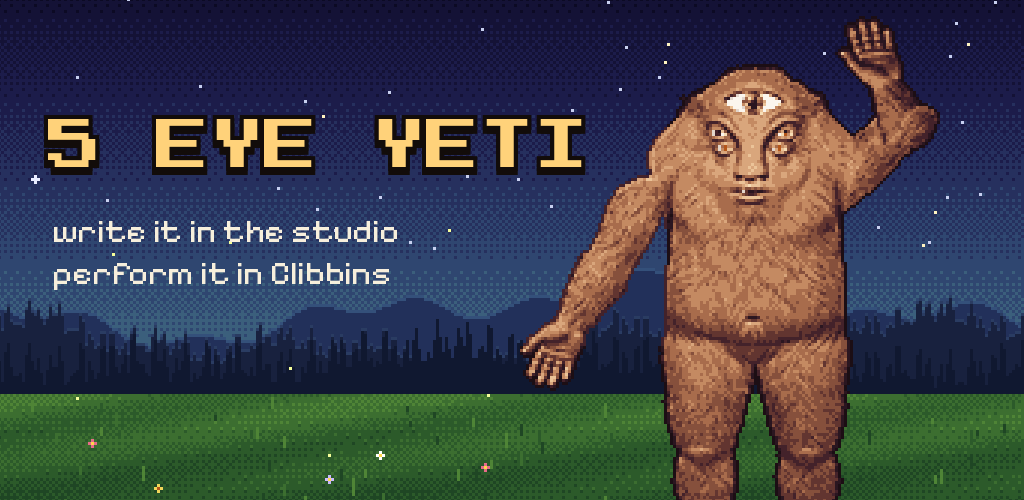
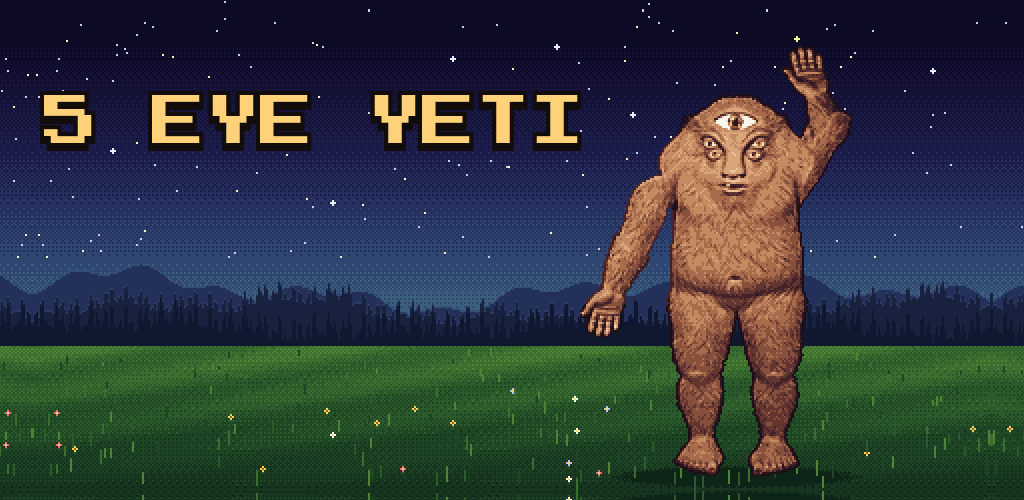
Title screen: animated pixel yeti reaching up to catch a firefly in a starlit clearing (no moon), fireflies and blinks; feature graphic shows only the name
Claude-Session: https://claude.ai/code/session_01JpLHzsYAvEKzmccr94t7N9

diff --git a/android/app/src/main/java/app/foxbox/ui/ProjectScreen.kt b/android/app/src/main/java/app/foxbox/ui/ProjectScreen.kt
@@ -19,7 +19,6 @@ import java.util.Date
 class ProjectScreen(c: Context, private val onOpen: (Project) -> Unit, private val onNew: () -> Unit, private val onManage: (Project) -> Unit) : FrameLayout(c) {
     private val titleP = Px.text(26f, Pal.ORANGE, headFont = true)
     private val tagP = Px.text(14f, Pal.AQUA_D)
-    private val subP = Px.text(13f, Pal.SUN, headFont = true, align = Paint.Align.LEFT)
 
     init {
         setWillNotDraw(false)
@@ -36,23 +35,56 @@ class ProjectScreen(c: Context, private val onOpen: (Project) -> Unit, private v
     private val headP = Px.text(34f, Pal.ORANGE, headFont = true)
     private val shine = intArrayOf(0xFFFFF4D6.toInt(), 0xFFFFD27A.toInt(), 0xFFF4A259.toInt(), 0xFFE8742C.toInt(), 0xFFB8521B.toInt())
 
-    /** The title scene: the yeti waving in headphones in the moonlit clearing (pixel art, drawn with hard pixels). */
-    private val scene = context.assets.open("images/title_scene.png").use { android.graphics.BitmapFactory.decodeStream(it) }
-    private val scenePaint = Paint().apply { isFilterBitmap = false; isAntiAlias = false }
+    // ---- the title scene: a starlit clearing where the yeti reaches up to catch fireflies (pixel art, played back as frames)
+    private fun img(name: String) = context.assets.open("images/$name").use { android.graphics.BitmapFactory.decodeStream(it) }
+    private val bg = img("title_bg.png")
+    private val sheet = img("yeti_frames.png")
+    private val blink = img("yeti_blink.png")
+    private val anim = org.json.JSONObject(context.assets.open("images/yeti_anim.json").use { String(it.readBytes()) })
+    private val frames = anim.getInt("frames"); private val fw = anim.getInt("w"); private val fh = anim.getInt("h")
+    private val fx = anim.getInt("x"); private val fy = anim.getInt("y")
+    private val hands = anim.getJSONArray("hands").let { a -> Array(a.length()) { i -> a.getJSONArray(i).let { floatArrayOf(it.getDouble(0).toFloat(), it.getDouble(1).toFloat()) } } }
+    private val pixel = Paint().apply { isFilterBitmap = false; isAntiAlias = false }
+    private val glow = Paint()
     private val src = android.graphics.Rect(); private val dst = android.graphics.RectF()
+    private val t0 = System.nanoTime()
+    /** Fireflies: centre, orbit radii, speed and phase, in scene pixels. The first one is the one he reaches for. */
+    private val bugs = arrayOf(
+        floatArrayOf(388f, 34f, 22f, 10f, 0.9f, 0f), floatArrayOf(300f, 120f, 30f, 14f, 0.6f, 1.3f), floatArrayOf(440f, 110f, 18f, 22f, 0.7f, 2.1f),
+        floatArrayOf(210f, 150f, 40f, 12f, 0.5f, 0.4f), floatArrayOf(120f, 130f, 30f, 18f, 0.8f, 3.0f), floatArrayOf(470f, 60f, 14f, 20f, 0.65f, 4.2f),
+        floatArrayOf(60f, 165f, 26f, 10f, 0.75f, 5.1f),
+    )
 
     override fun onDraw(c: Canvas) {
         val w = width.toFloat(); val h = height.toFloat()
+        val t = (System.nanoTime() - t0) / 1e9f
         // Fill the screen; keep the right edge (where the yeti is) and crop from the left or top.
-        val k = maxOf(w / scene.width, h / scene.height)
-        val sw = (w / k).toInt().coerceAtMost(scene.width); val sh = (h / k).toInt().coerceAtMost(scene.height)
-        src.set(scene.width - sw, (scene.height - sh) / 2, scene.width, (scene.height - sh) / 2 + sh)
-        dst.set(0f, 0f, w, h)
-        c.drawBitmap(scene, src, dst, scenePaint)
+        val k = maxOf(w / bg.width, h / bg.height)
+        val sw = (w / k).toInt().coerceAtMost(bg.width); val sh = (h / k).toInt().coerceAtMost(bg.height)
+        val left = bg.width - sw; val top = (bg.height - sh) / 2
+        src.set(left, top, left + sw, top + sh); dst.set(0f, 0f, w, h)
+        c.drawBitmap(bg, src, dst, pixel)
+        fun at(sx: Float, sy: Float, bmp: android.graphics.Bitmap, sr: android.graphics.Rect) {
+            dst.set((sx - left) * k, (sy - top) * k, (sx - left + sr.width()) * k, (sy - top + sr.height()) * k); c.drawBitmap(bmp, sr, dst, pixel)
+        }
+        // reach up, hold a moment with the firefly, come back down (about 4 s a cycle)
+        val cyc = (t / 4.2f) % 1f
+        val reach = (1.35f * (0.5f - 0.5f * kotlin.math.cos(2 * Math.PI.toFloat() * cyc))).coerceAtMost(1f)
+        val f = (reach * (frames - 1) + 0.5f).toInt().coerceIn(0, frames - 1)
+        src.set(f * fw, 0, (f + 1) * fw, fh); at(fx.toFloat(), fy.toFloat(), sheet, src)
+        if ((t % 3.7f) < 0.14f) { src.set(0, 0, fw, fh); at(fx.toFloat(), fy.toFloat(), blink, src) }
+        // fireflies: soft pulsing lights; the first drifts down into his raised hand
+        for ((i, b) in bugs.withIndex()) {
+            var x = b[0] + b[2] * kotlin.math.sin(t * b[4] + b[5]); var y = b[1] + b[3] * kotlin.math.sin(t * b[4] * 1.7f + b[5] * 2f)
+            if (i == 0) { val hp = hands[f]; val g = reach * reach * reach; x += (hp[0] - x) * g; y += (hp[1] - 3f - y) * g }
+            val pulse = 0.55f + 0.45f * kotlin.math.sin(t * 3.1f + b[5] * 5f)
+            val px = ((x.toInt() - left) * k); val py = ((y.toInt() - top) * k)
+            glow.color = Pal.alpha(0xFFE8FF8A.toInt(), 0.35f * pulse); c.drawRect(px - k, py - k, px + 2 * k, py + 2 * k, glow)
+            glow.color = Pal.alpha(0xFFF6FF9A.toInt(), 0.6f + 0.4f * pulse); c.drawRect(px, py, px + k, py + k, glow)
+        }
         headP.textAlign = Paint.Align.LEFT
         snesTitle(c, "5 EYE YETI", Px.dp(28f), Px.dp(64f))
-        tagP.textAlign = Paint.Align.LEFT
-        c.drawText("5IY", Px.dp(32f), Px.dp(92f), subP)
+        postInvalidateDelayed(40)
     }
 
     /** Super Nintendo-style title: banded metallic fill, thick ink outline and a drop shadow. */

diff --git a/android/play/concepts/pixel/yeti_anim.py b/android/play/concepts/pixel/yeti_anim.py
@@ -1,0 +1,126 @@
+"""5 Eye Yeti title animation: a starlit clearing (no moon) and the yeti reaching up
+to catch fireflies, as pixel-art frames the project screen plays back.
+Writes title_bg.png, yeti_frames.png, yeti_blink.png and yeti_anim.json into OUT."""
+import sys, math, random, json, os
+sys.path.insert(0, '.')
+from PIL import Image
+import numpy as np
+import rig
+import render as R
+
+OUT = sys.argv[1]
+W, H = 480, 240
+rnd = random.Random(9)
+B4, hx = R.B4, R.hx
+
+# ---------------- background
+sc = np.zeros((H, W, 3), np.uint8)
+SKY = [hx(c) for c in ('#0c0a24', '#141236', '#1c1c4a', '#26305e', '#2f4670', '#3b5f7c', '#4c7a86')]
+for y in range(H):
+    t = y / 165 * (len(SKY) - 1)
+    for x in range(W): sc[y, x] = SKY[int(np.clip(t + B4[y % 4, x % 4], 0, len(SKY) - 1))]
+for _ in range(150):
+    x, y = rnd.randrange(W), rnd.randrange(125)
+    sc[y, x] = hx('#c8d0f0') if rnd.random() < 0.7 else hx('#fff4c0')
+for (x, y) in ((40, 70), (210, 24), (450, 30), (150, 96), (300, 52), (262, 18)):
+    for dx, dy in ((0, 0), (1, 0), (-1, 0), (0, 1), (0, -1)): sc[y + dy, x + dx] = hx('#e8ecff')
+def ridge(base, amp, seed_, col, top_col=None, jag=0):
+    rr = random.Random(seed_); ph = [rr.uniform(0, 6) for _ in range(4)]
+    for x in range(W):
+        h = base - amp * (0.5 * math.sin(x * 0.02 + ph[0]) + 0.3 * math.sin(x * 0.06 + ph[1]) + 0.2 * math.sin(x * 0.17 + ph[2]))
+        if jag: h -= jag * abs(math.sin(x * 0.9 + ph[3]) * math.sin(x * 0.37))
+        for y in range(int(h), H): sc[y, x] = col
+        if top_col is not None and 0 <= int(h) < H: sc[int(h), x] = top_col
+ridge(140, 14, 1, hx('#22305a'), hx('#34507a'))
+ridge(152, 10, 2, hx('#18213e'), hx('#2a3c62'), jag=9)
+ridge(162, 6, 3, hx('#101830'), None, jag=14)
+GRASS = [hx(c) for c in ('#0e2418', '#16341e', '#1f4624', '#2c5a2a', '#3c6e30', '#4f8436')]
+for y in range(168, H):
+    t = (y - 168) / (H - 168)
+    for x in range(W):
+        k = 4.6 - t * 3.2 + B4[y % 4, x % 4] * 1.2 + 0.6 * math.sin(x * 0.05 + y * 0.3) * (1 - t)
+        sc[y, x] = GRASS[int(np.clip(k, 0, 5))]
+bg = Image.fromarray(sc); px = bg.load()
+FEET, BODYX = 233, 352
+for y in range(FEET - 6, FEET + 6):
+    for x in range(BODYX - 70, BODYX + 70):
+        if ((x - BODYX) / 58) ** 2 + ((y - FEET) / 5) ** 2 < 1 + B4[y % 4, x % 4] * 0.4: px[x, y] = GRASS[0]
+for _ in range(26):
+    x = rnd.randrange(8, W - 8); y = rnd.randrange(182, H - 4)
+    if abs(x - BODYX) < 60: continue
+    pc = rnd.choice((hx('#e86a8a'), hx('#f2d65a'), hx('#c8b8ff'), hx('#ffffff')))
+    px[x, y + 1] = GRASS[4]; px[x, y + 2] = GRASS[3]
+    for dx, dy in ((0, -1), (-1, 0), (1, 0), (0, 1)): px[x + dx, y + dy] = pc
+    px[x, y] = hx('#ffd84a') if pc != hx('#f2d65a') else hx('#b4561a')
+for _ in range(240):
+    x = rnd.randrange(W); y = rnd.randrange(172, H)
+    if abs(x - BODYX) < 34 and y < FEET - 6: continue
+    h = 2 + int((y - 168) / 16) + rnd.randrange(3)
+    col = GRASS[min(5, 3 + rnd.randrange(3))] if rnd.random() < 0.7 else GRASS[2]
+    for k3 in range(h):
+        if 0 <= y - k3 < H: px[x, y - k3] = col
+bg.save(os.path.join(OUT, 'title_bg.png'))
+
+# ---------------- yeti frames: the right arm reaches up for a firefly and comes back down
+K = 190 / 897                         # front body height -> 190 px
+OXs, OYs = BODYX - 431 * K, FEET - 897 * K
+N = 8
+frames = []
+for i in range(N):
+    t = i / (N - 1)
+    e = 0.5 - 0.5 * math.cos(math.pi * t)          # ease in/out
+    im, off = rig.pose(('L', 8 + 6 * e, 4 * e), ('R', 4 + 112 * e, 6 + 48 * e))
+    TH = round(im.height * K)
+    spr = R.snes_creature(im, TH)
+    x0 = OXs - off[0] * spr.width / im.width; y0 = OYs - off[1] * TH / im.height
+    frames.append((spr, int(round(x0)), int(round(y0))))
+fx0 = min(f[1] for f in frames); fy0 = min(f[2] for f in frames)
+fx1 = max(f[1] + f[0].width for f in frames); fy1 = max(f[2] + f[0].height for f in frames)
+FW, FH = fx1 - fx0, fy1 - fy0
+sheet = Image.new('RGBA', (FW * N, FH), (0, 0, 0, 0))
+hands = []
+headTop = int(OYs - fy0 + 4)
+for i, (spr, x, y) in enumerate(frames):
+    cell = Image.new('RGBA', (FW, FH), (0, 0, 0, 0)); cell.paste(spr, (x - fx0, y - fy0), spr)
+    sheet.paste(cell, (i * FW, 0))
+    a = np.asarray(cell)[..., 3] > 0
+    cx = int(BODYX - fx0)
+    # the hand: the highest point of the reaching arm (above the head once it's raised)
+    ys, xs = np.nonzero(a); j = int(np.argmin(ys))
+    if not (xs[j] > cx + 10 and ys[j] < headTop - 2):
+        ys, xs = np.nonzero(a[:, cx + 44:]); j = int(np.argmin(ys)); xs = xs + cx + 44
+    hands.append([int(xs[j] + fx0), int(ys[j] + fy0)])
+sheet.save(os.path.join(OUT, 'yeti_frames.png'))
+
+# ---------------- blink overlay: all five eyes shut (the head doesn't move between frames)
+cell = np.asarray(sheet.crop((0, 0, FW, FH))).copy()
+EYE = set(R.SCLERA + R.IRIS)
+blink = np.zeros_like(cell)
+headH = int(FH * 0.4)
+eye = np.zeros(cell.shape[:2], bool)
+for y in range(headH):
+    for x in range(FW):
+        if cell[y, x, 3] and tuple(cell[y, x, :3]) in EYE: eye[y, x] = True
+# pupils: outline-coloured pixels surrounded by eye colour
+for y in range(1, headH - 1):
+    for x in range(1, FW - 1):
+        if cell[y, x, 3] and tuple(cell[y, x, :3]) == R.OUT and eye[y - 1:y + 2, x - 1:x + 2].sum() >= 3: eye[y, x] = True
+for y in range(headH):
+    for x in range(FW):
+        if eye[y, x]:
+            low = y + 1 < FH and not eye[y + 1, x]
+            blink[y, x] = (*(R.FUR[2] if low else R.FUR[6]), 255)
+Image.fromarray(blink).save(os.path.join(OUT, 'yeti_blink.png'))
+json.dump({'frames': N, 'w': FW, 'h': FH, 'x': fx0, 'y': fy0, 'hands': hands}, open(os.path.join(OUT, 'yeti_anim.json'), 'w'))
+
+# preview: frames over the background
+prev = Image.new('RGB', (W * 2, H * 2))
+for i, f in enumerate((0, N - 1)):
+    b = bg.copy(); c = sheet.crop((f * FW, 0, (f + 1) * FW, FH)); b.paste(c, (fx0, fy0), c)
+    if f == N - 1:
+        bl = Image.fromarray(blink); b.paste(bl, (fx0, fy0), bl)
+    hxp, hyp = hands[f]; b.putpixel((hxp, max(0, hyp - 4)), (246, 255, 154))
+    prev.paste(b.resize((W, H)), (0, 0) if i == 0 else (W, 0))
+prev.save('anim-preview.png')
+bg2 = bg.copy(); c = sheet.crop(((N // 2) * FW, 0, (N // 2 + 1) * FW, FH)); bg2.paste(c, (fx0, fy0), c); bg2.save('anim-mid.png')
+print('ok', N, FW, FH, fx0, fy0, hands)

diff --git a/android/play/make_art.py b/android/play/make_art.py
@@ -1,27 +1,37 @@
 """Play Store graphics for 5 Eye Yeti (5IY).
 The app icon is built from the blue yeti line drawing (see concepts/icon.py);
-this script makes the 1024x500 feature graphic from the pixel-art title scene.
+this script makes the 1024x500 feature graphic from the pixel-art title scene
+(the clearing and one frame of the yeti reaching for a firefly) with just the name.
 Run: python3 play/make_art.py"""
 import os
 from PIL import Image, ImageDraw, ImageFont
 
 here = os.path.dirname(os.path.abspath(__file__))
-scene = Image.open(os.path.join(here, '..', 'app', 'src', 'main', 'assets', 'images', 'title_scene.png')).convert('RGB')
+imgs = os.path.join(here, '..', 'app', 'src', 'main', 'assets', 'images')
+import json
+scene = Image.open(os.path.join(imgs, 'title_bg.png')).convert('RGBA')
+meta = json.load(open(os.path.join(imgs, 'yeti_anim.json')))
+f = meta['frames'] - 2   # the yeti reaching up
+cell = Image.open(os.path.join(imgs, 'yeti_frames.png')).crop((f * meta['w'], 0, (f + 1) * meta['w'], meta['h']))
+scene.alpha_composite(cell, (meta['x'], meta['y']))
+hx, hy = meta['hands'][f]
+for dx, dy, col in ((0, -4, (246, 255, 154, 255)), (-1, -4, (232, 255, 138, 120)), (1, -4, (232, 255, 138, 120)), (0, -5, (232, 255, 138, 120)), (0, -3, (232, 255, 138, 120))):
+    scene.putpixel((hx + dx, hy + dy), col)
+scene = scene.convert('RGB')
 W, H = 1024, 500
-# scale the 480x240 scene by whole pixels, keep the right edge (the yeti), crop to 1024x500
-k = 3
-big = scene.resize((scene.width * k, scene.height * k), Image.NEAREST)
-img = big.crop((big.width - W, (big.height - H) // 2, big.width, (big.height - H) // 2 + H))
+# scale the 480x240 scene by whole pixels (2x = 960x480), then mirror-extend the edges to 1024x500
+import numpy as np
+big = np.asarray(scene.resize((scene.width * 2, scene.height * 2), Image.NEAREST))
+padx, pady = (W - big.shape[1]) // 2, (H - big.shape[0]) // 2
+img = Image.fromarray(np.pad(big, ((pady, H - big.shape[0] - pady), (padx, W - big.shape[1] - padx), (0, 0)), mode='reflect'))
 d = ImageDraw.Draw(img)
 fonts = os.path.join(here, '..', 'app', 'src', 'main', 'assets', 'fonts')
 head = ImageFont.truetype(os.path.join(fonts, 'PressStart2P-Regular.ttf'), 54)
 body = ImageFont.truetype(os.path.join(fonts, 'PixelifySans.ttf'), 34)
-x, y = 48, 120
+x, y = 44, 96
 for dx in (-4, 0, 4):
     for dy in (-4, 0, 4, 8):
         d.text((x + dx, y + dy), "5 EYE YETI", font=head, fill=(18, 12, 10))
 d.text((x, y), "5 EYE YETI", font=head, fill=(255, 210, 122))
-d.text((x + 4, y + 90), "write it in the studio", font=body, fill=(247, 239, 220))
-d.text((x + 4, y + 132), "perform it in Clibbins", font=body, fill=(247, 239, 220))
 img.save(os.path.join(here, 'feature-graphic-1024x500.png'))
 print('ok')
